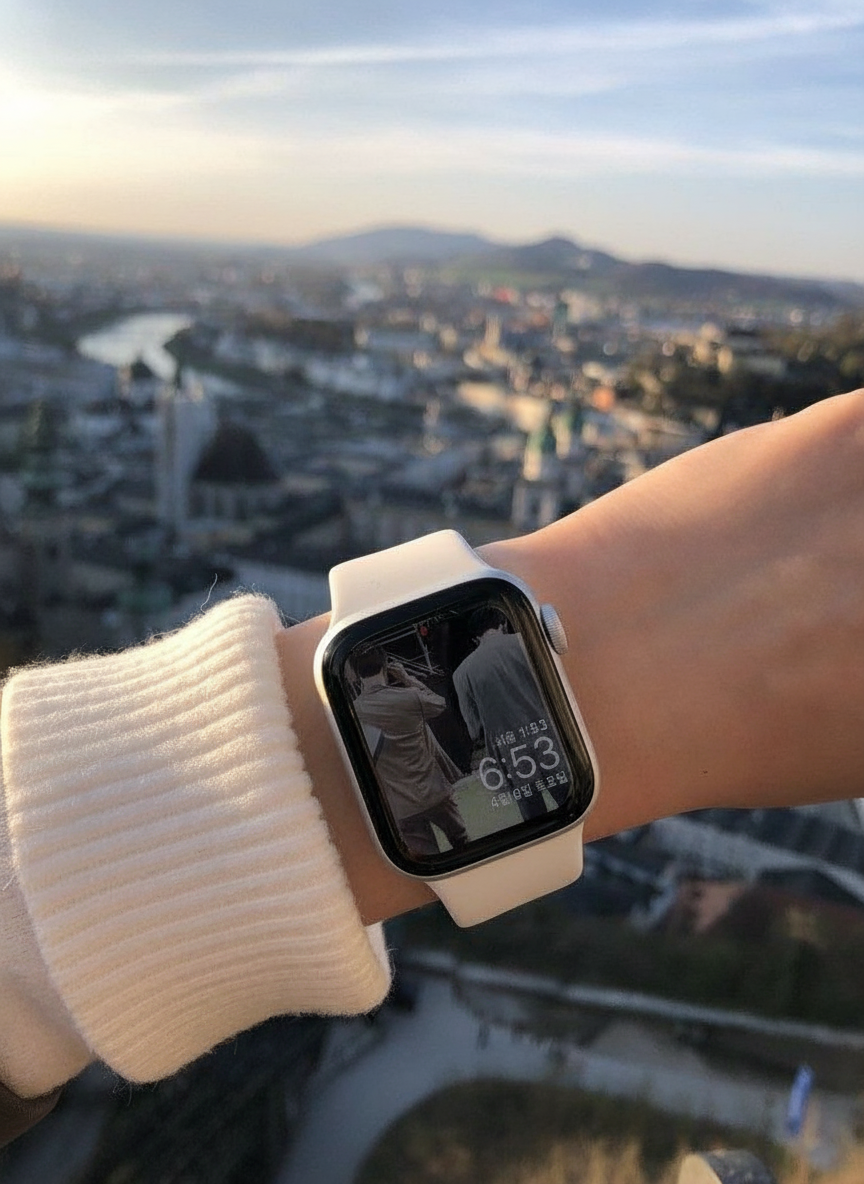
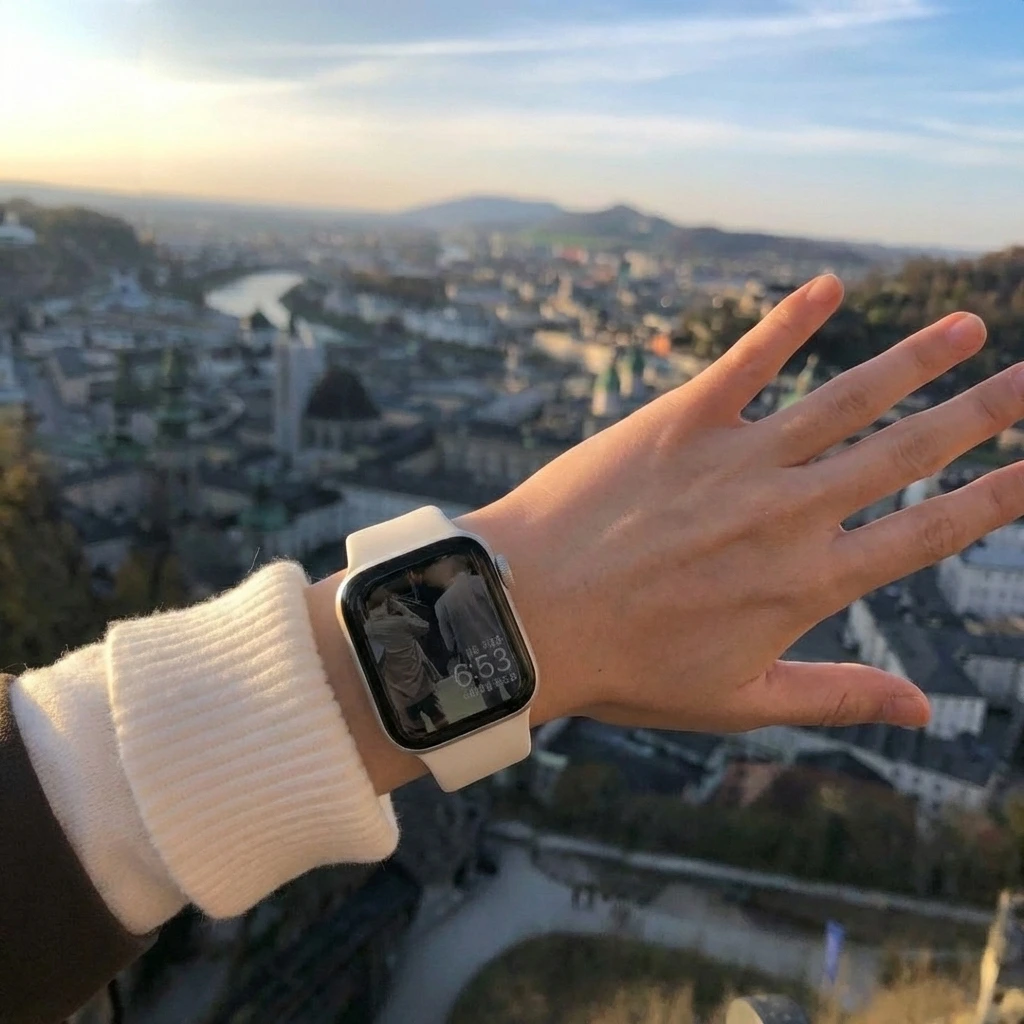
fix: show test button to all uswa accounts; replace watch-allowed image

diff --git a/src/pages/OnboardingWelcome.tsx b/src/pages/OnboardingWelcome.tsx
@@ -4,6 +4,7 @@ import { CheckCircle2, XCircle, Loader2, ExternalLink, X, Lightbulb } from 'luci
 import { Button } from '@/components/ui/button';
 import { Checkbox } from '@/components/ui/checkbox';
 import { checkTosAgreement, signTosAgreement, markTosAgreed } from '@/lib/onboarding-api';
+import { isStudioOnboardingEnabled } from '@/lib/feature-flags';
 import { useAuth } from '@/contexts/AuthContext';
 import { trackTosViewed, trackTosSigned } from '@/lib/posthog-events';
 
@@ -416,7 +417,7 @@ export default function OnboardingWelcome() {
       </div>
       </div>
 
-      {user?.email?.toLowerCase() === 'uswa@raresense.so' && (
+      {isStudioOnboardingEnabled(user?.email) && (
         <button
           type="button"
           onClick={() => {

diff --git a/src/pages/Onboarding.tsx b/src/pages/Onboarding.tsx
@@ -10,7 +10,7 @@ import {
   markOnboardingComplete,
   saveUserType,
 } from '@/lib/onboarding-api';
-import { isOnboardingWelcomeEnabled } from '@/lib/feature-flags';
+import { isOnboardingWelcomeEnabled, isStudioOnboardingEnabled } from '@/lib/feature-flags';
 import { trackUserTypeSelected } from '@/lib/posthog-events';
 
 // ---------------------------------------------------------------------------
@@ -351,7 +351,7 @@ export default function Onboarding() {
         </Button>
       </div>
 
-      {user?.email?.toLowerCase() === 'uswa@raresense.so' && (
+      {isStudioOnboardingEnabled(user?.email) && (
         <button
           type="button"
           onClick={() => {

diff --git a/src/pages/UnifiedStudio.tsx b/src/pages/UnifiedStudio.tsx
@@ -1897,7 +1897,7 @@ export default function UnifiedStudio() {
         <>
           <StudioOnboardingModal
             open={onboardingOpen}
-            isTest={user?.email?.toLowerCase() === 'uswa@raresense.so'}
+            isTest={isStudioOnboardingEnabled(user?.email)}
             onClose={() => {
               setOnboardingOpen(false);
               if (user) markTosAgreed(user.id);
